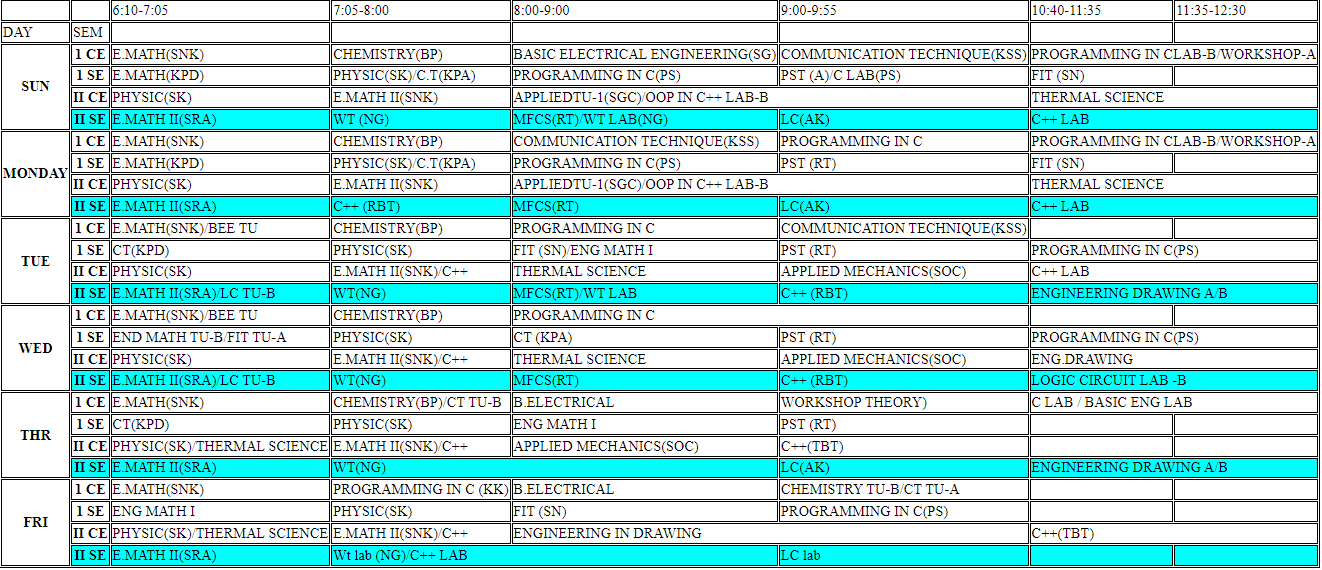
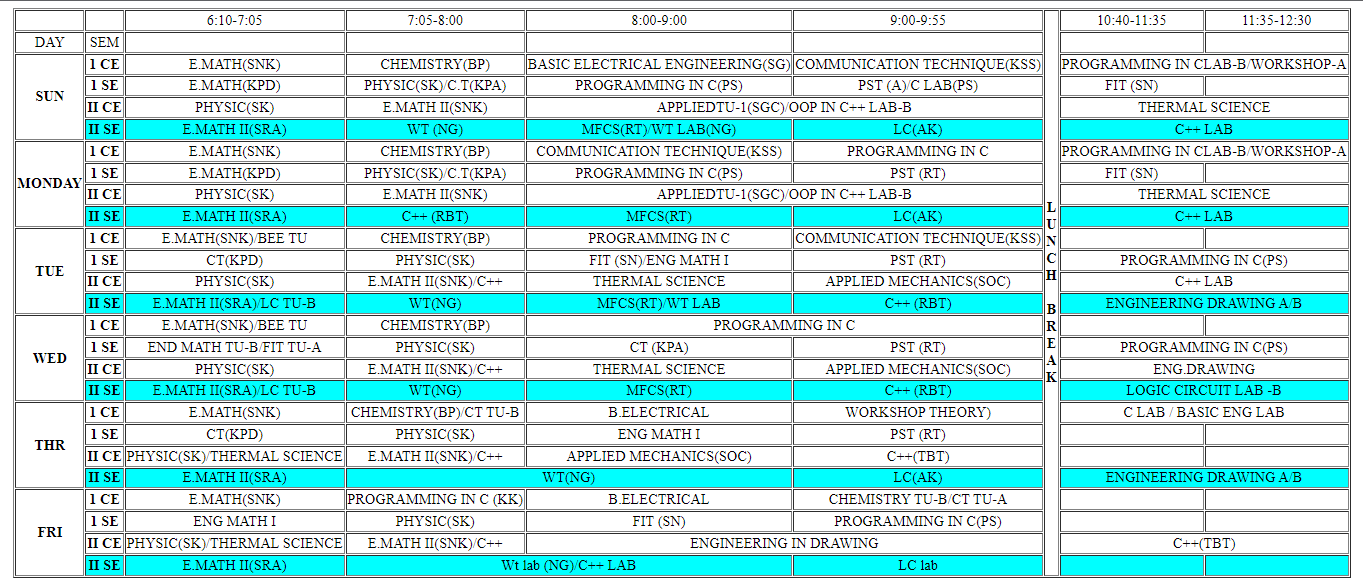
commit assig

diff --git a/Assigment/Assigment 4/routine.html b/Assigment/Assigment 4/routine.html
@@ -5,18 +5,11 @@
     <meta charset='utf-8'>
     <meta http-equiv='X-UA-Compatible' content='IE=edge'>
     <title>TABLE</title>
-    <style>
-        table,
-        th,
-        td {
-            border: 1px solid black;
-        }
-    </style>
 </head>
 
 <body>
-    <table style="width: 100%; height :100%;">
-        <thead align="center">
+    <table border="1" cellspacing="0" cellpadding="7" align="center" style="text-align: center">
+        <tbody align="center">
             <tr>
                 <td>&nbsp;</td>
                 <td>&nbsp;</td>
@@ -24,6 +17,9 @@
                 <td>7:05-8:00</td>
                 <td>8:00-9:00</td>
                 <td>9:00-9:55</td>
+                <th rowspan="31">
+                    L<br />U<br />N<br />C<br />H<br />&nbsp;<br />B<br />R<br />E<br />A<br />K
+                </th>
                 <td>10:40-11:35</td>
                 <td>11:35-12:30</td>
             </tr>
@@ -37,9 +33,17 @@
                 <td>&nbsp;</td>
                 <td>&nbsp;</td>
             </tr>
+            <tr>
+                <td>&nbsp;</td>
+                <td>&nbsp;</td>
+                <td>&nbsp;</td>
+                <td>&nbsp;</td>
+                <td>&nbsp;</td>
+                <td>&nbsp;</td>
+                <td>&nbsp;</td>
+                <td>&nbsp;</td>
+            </tr>
 
-        </thead>
-        <tbody align="center">
             <tr>
                 <th rowspan="4" colspan="1" scope="rowgroup">SUN</th>
                 <th scope="row">1 CE</th>
@@ -74,6 +78,16 @@
                 <td colspan="2">C++ LAB</td>
             </tr>
             <tr>
+                <td>&nbsp;</td>
+                <td>&nbsp;</td>
+                <td>&nbsp;</td>
+                <td>&nbsp;</td>
+                <td>&nbsp;</td>
+                <td>&nbsp;</td>
+                <td>&nbsp;</td>
+                <td>&nbsp;</td>
+            </tr>
+            <tr>
                 <th rowspan="4" colspan="1" scope="rowgroup">MONDAY</th>
                 <th scope="row">1 CE</th>
                 <td>E.MATH(SNK)</td>
@@ -105,6 +119,16 @@
                 <td>MFCS(RT)</td>
                 <td>LC(AK)</td>
                 <td colspan="2">C++ LAB</td>
+            </tr>
+            <tr>
+                <td>&nbsp;</td>
+                <td>&nbsp;</td>
+                <td>&nbsp;</td>
+                <td>&nbsp;</td>
+                <td>&nbsp;</td>
+                <td>&nbsp;</td>
+                <td>&nbsp;</td>
+                <td>&nbsp;</td>
             </tr>
             <tr>
                 <th rowspan="4" colspan="1" scope="rowgroup">TUE</th>
@@ -142,6 +166,16 @@
                 <td colspan="2">ENGINEERING DRAWING A/B</td>
             </tr>
             <tr>
+                <td>&nbsp;</td>
+                <td>&nbsp;</td>
+                <td>&nbsp;</td>
+                <td>&nbsp;</td>
+                <td>&nbsp;</td>
+                <td>&nbsp;</td>
+                <td>&nbsp;</td>
+                <td>&nbsp;</td>
+            </tr>
+            <tr>
                 <th rowspan="4" colspan="1" scope="rowgroup">WED</th>
                 <th scope="row">1 CE</th>
                 <td>E.MATH(SNK)/BEE TU</td>
@@ -174,6 +208,16 @@
                 <td>MFCS(RT)</td>
                 <td>C++ (RBT)</td>
                 <td colspan="2">LOGIC CIRCUIT LAB -B</td>
+            </tr>
+            <tr>
+                <td>&nbsp;</td>
+                <td>&nbsp;</td>
+                <td>&nbsp;</td>
+                <td>&nbsp;</td>
+                <td>&nbsp;</td>
+                <td>&nbsp;</td>
+                <td>&nbsp;</td>
+                <td>&nbsp;</td>
             </tr>
             <tr>
                 <th rowspan="4" colspan="1" scope="rowgroup">THR</th>
@@ -209,6 +253,16 @@
                 <td colspan="2">WT(NG)</td>
                 <td>LC(AK)</td>
                 <td colspan="2">ENGINEERING DRAWING A/B</td>
+            </tr>
+            <tr>
+                <td>&nbsp;</td>
+                <td>&nbsp;</td>
+                <td>&nbsp;</td>
+                <td>&nbsp;</td>
+                <td>&nbsp;</td>
+                <td>&nbsp;</td>
+                <td>&nbsp;</td>
+                <td>&nbsp;</td>
             </tr>
             <tr>
                 <th rowspan="4" colspan="1" scope="rowgroup">FRI</th>
